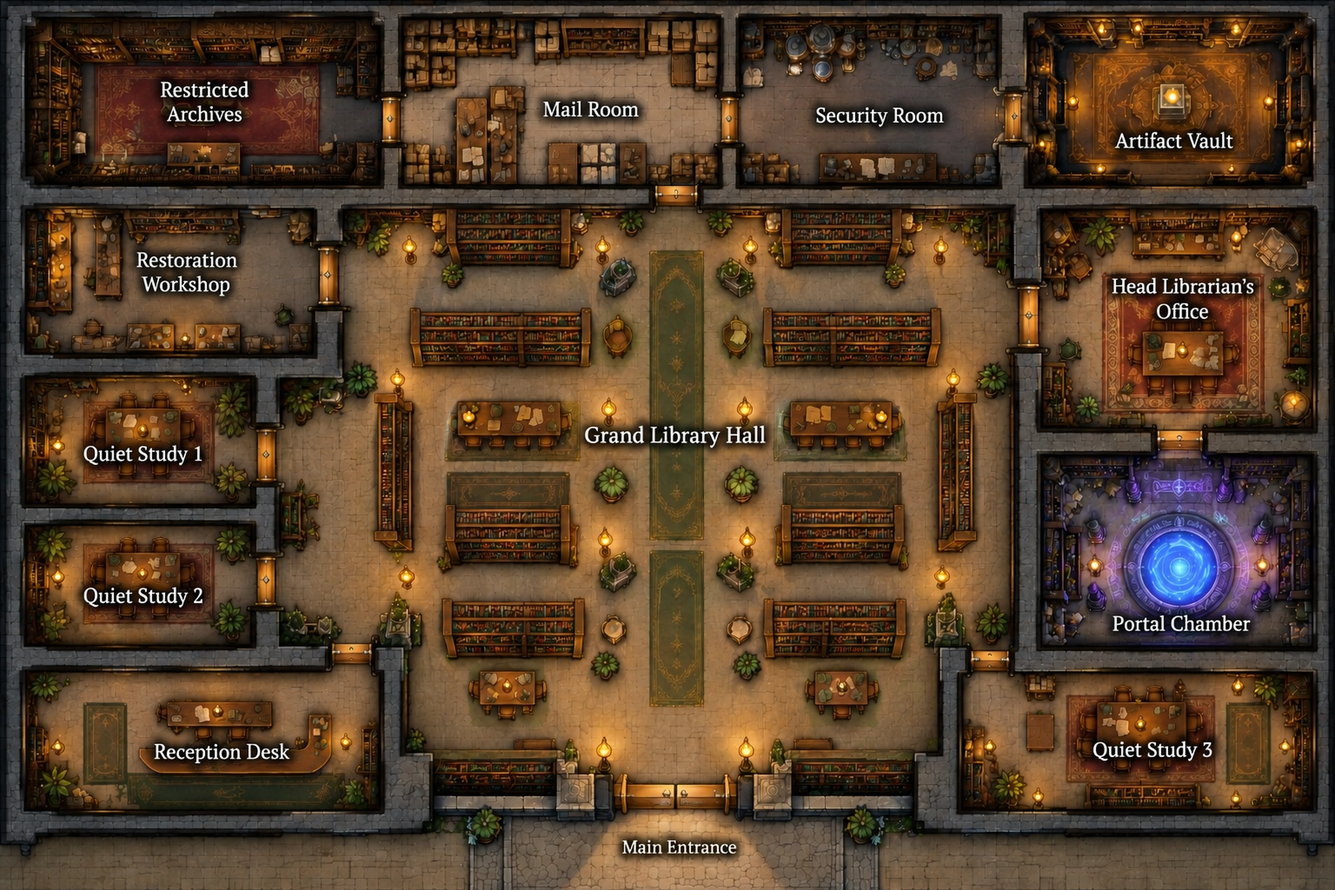
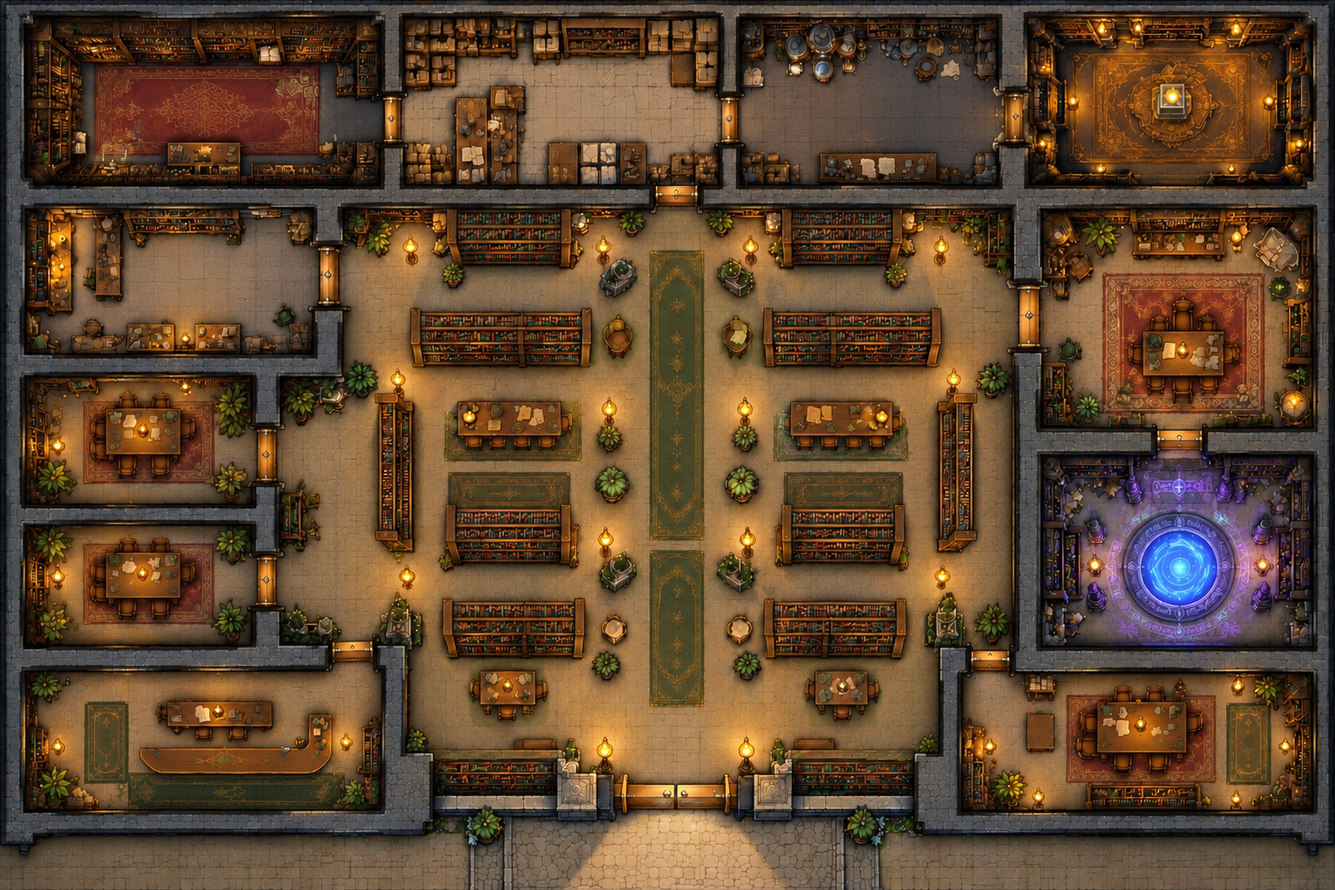
Remove baked-in room labels from the first-floor Foundry battlemap (v1.2.1)

diff --git a/README.md b/README.md
@@ -50,3 +50,6 @@ The illustration contains room-name lettering, so you can see which room is whic
 ## Automatic ZIP build
 
 Changes to module source pushed to the `main` branch trigger `.github/workflows/build-module.yml`, which packages all module files into `dist/library-thousandfold.zip` and publishes a workflow artifact.
+## Version 1.2.1 — Unlabeled first-floor map
+
+Removed room titles and the main entrance caption from the first-floor battlemap background. The room layout, Foundry wall and door definitions, lighting, placed NPC tokens and exterior gate scene remain unchanged.
